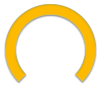
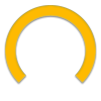
new knob assets and working circular track

diff --git a/leapsynth/CSControls/CSKnob.m b/leapsynth/CSControls/CSKnob.m
@@ -51,6 +51,7 @@
                   fraction:1.0];
     
     
+    
     //build the mask
     NSBezierPath *maskPath = [[NSBezierPath alloc] init];
     NSPoint center = NSMakePoint(bounds.size.width/2,bounds.size.height/2);
@@ -58,11 +59,12 @@
     [maskPath moveToPoint:center];
     [maskPath appendBezierPathWithArcWithCenter:center
                                          radius:bounds.size.width/2 
-                                     startAngle:-rads*(180.0/M_PI)
-                                       endAngle:240
-                                      clockwise:NO];
+                                     startAngle:240
+                                       endAngle:240-330*[self normalizeValue]
+                                      clockwise:YES];
     [maskPath closePath];
 
+//    [maskPath fill];
     //draw the fill clipped with mask
     [maskPath addClip];
     [fillImage drawInRect:bounds
